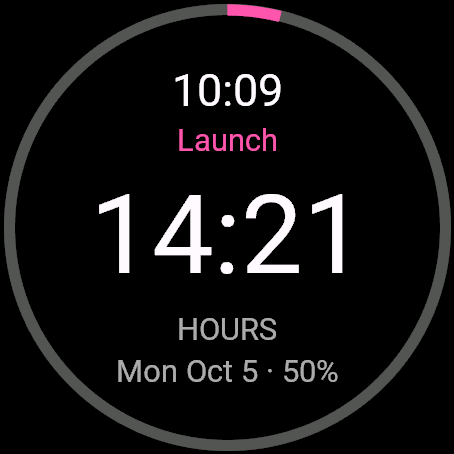
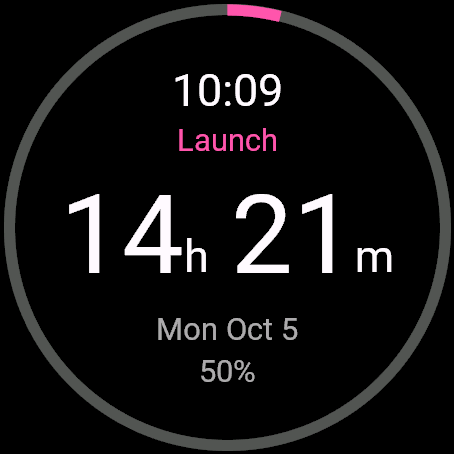
feat(DaysToGo): Pro's last 24 hours read 8h 06m
8:06 over HOURS read as a second clock under the time. Digits keep the
hero number font; small h/m letters sit on the digits' baseline
(getFontAscent where available); the HOURS caption is dropped. ADR-018
amendment. Letters are English only for now (ROADMAP 13.7).

ROADMAP 13.2; 13.6 decided keep.

Claude-Session: https://claude.ai/code/session_01VBnXC1zGyaFSzHFynsMi4H

Changed region(s): [[0.1542, 0.4009, 0.8634, 0.6167], [0.2467, 0.6784, 0.7401, 0.8634], [0.6167, 0.5859, 0.6784, 0.6167]]

diff --git a/ROADMAP.md b/ROADMAP.md
@@ -22,11 +22,12 @@ Do not keep open checkboxes anywhere else. Status 2026-10-05.
 - [x] 1.18 `[you]` DayArc on the Instinct 3 Solar: the Pro morning and midday are the same picture as Simple (deliberate, ADR-017, because the label is kept over a second grid row). Keep, or give Pro something more there? Also the new 0.12 stroke weight and the one-row Pro grid on the Instinct are judgement calls (ADR-017 says how to revert each): say if you want either reverted after you see them. **Decided 2026-10-04: keep as built** (DayArc ADR-017).
 - [ ] 8.2 `[you]` (later) Approve a direction for a bolder Days To Go; then implement (8.1).
 - [x] 13.1 `[you]` Days To Go ring scale (design critique 2026-10-05; Pro and Free). Two jumps as built: a full accent ring at exactly 365 days, empty at 366; and in Pro a timed event's ring goes from 5% (1 day) to about full when its last 24 hours start, then drains again. Options: (a) keep; (b) cap below full until the day and use one continuous scale in the last 24 h (about 1 h of code; the Pro listing shots with `8:06` show the 24 h ring and would need redoing, 10.5); (c) cap at 365 only (about 30 min). Agent recommends (b) together with 13.2. **Decided 2026-10-05: (b), built** (cap 95%, one scale; tests pass in the simulator; Pro listing shots 1, 3, 4, 5 and the hero recaptured). Ships with the next Days To Go upload of both; the new Pro images go up with it (10.5).
-- [ ] 13.2 `[you]` Days To Go Pro: the hours state `8:06 HOURS` reads as a second clock under the time (store hero shows `14:21 HOURS`). Option: `8h 06m`, no HOURS caption, inside DaysToGo ADR-018 (to the minute). Mockup first; about 2 h plus fit tests and new listing shots.
+- [x] 13.2 `[you]` Days To Go Pro: the hours state `8:06 HOURS` reads as a second clock under the time (store hero shows `14:21 HOURS`). Option: `8h 06m`, no HOURS caption, inside DaysToGo ADR-018 (to the minute). Mockup first; about 2 h plus fit tests and new listing shots. **Decided 2026-10-05: built** (digits in the hero font, small "h"/"m" on the baseline, no caption; ADR-018 amendment; tests pass on 8 devices in the simulator; Pro listing shots recaptured).
 - [ ] 13.3 `[you]` Days To Go: the bottom date is the event's date but reads as today's. Option: a prefix (`→ Nov 18` or a word like "on"). About 1 h; a word needs 15 languages (translations are yours).
 - [ ] 13.4 `[you]` Days To Go Pro: footer `50%` / `6.4K` has no icon, so it reads as nothing. Option: a small battery or steps glyph from primitives. About 2 h; a look change.
 - [ ] 13.5 `[you]` Days To Go Pro: Event time zone is a 216-entry `UTC±hh:mm` list; a wrong pick is silently an hour off (spec rule 6). Option: city hints on common offsets (`UTC+01:00 (Paris, Lagos)`). About half a day plus strings and the listing.
-- [ ] 13.6 `[you]` Days To Go: the accent arc shows time left (drains); most rings show progress (fill). Keep, or invert to fill toward the day (reopens the `DESIGN.md` direction). Agent: keep, decide after 13.1.
+- [x] 13.6 `[you]` Days To Go: the accent arc shows time left (drains); most rings show progress (fill). Keep, or invert to fill toward the day (reopens the `DESIGN.md` direction). Agent: keep, decide after 13.1. **Decided 2026-10-05: keep.**
+- [ ] 13.7 `[you]` Days To Go Pro: the `8h 06m` letters are English on every watch (`resources-pro/strings/units.xml`; languages fall back to it). "m" can read as metres. Options: keep; "min"; or a `resources-pro-<lang>/strings/units.xml` per language (translations are yours).
 
 ## 2. Your hands (a watch, the store dashboard, a person)
 

diff --git a/DaysToGo/DESIGN.md b/DaysToGo/DESIGN.md
@@ -51,7 +51,7 @@ components:
 
 ## Timed events, to the minute (Pro, ADR-018)
 
-A Pro event with a time (Time of day, Minute) and, optionally, an Event time zone changes **no row, font or colour**. The last 24 hours before the event's instant still read as the hero `H:MM` over the caption HOURS (for example `7:51`, rounded up to the minute so it never says `0:00` while time is left; `24:00` at most, which is the widest string and was already in the screen-fit states), with the ring on the same square-root scale as the days (5% at 24 hours down to a sliver; ROADMAP 13.1). What the zone moves is only **when** that state starts and **when** TODAY arrives; the day count before it is whole local calendar days and flips at the watch's own midnight, so the same event shows the same number of days on any wrist. On an Instinct the hero is the same text in white on black, beside the window as before. There is no zone label on the face: the zone is a setting, never a row (one number, nothing more).
+A Pro event with a time (Time of day, Minute) and, optionally, an Event time zone changes no colour. The last 24 hours before the event's instant read as the hero `7h 51m` with no caption row (ADR-018 amendment, 2026-10-05, ROADMAP 13.2: `7:51` over HOURS read as a second clock): the digits in the hero's number font, the letters "h" and "m" in the largest letter font up to 45% of the digits' height, on the digits' baseline, two letter-spaces between the groups. Rounded up to the minute so it never says `0m` while time is left; `24h 00m` at most, the widest state in the screen-fit test, with the ring on the same square-root scale as the days (5% at 24 hours down to a sliver; ROADMAP 13.1). What the zone moves is only **when** that state starts and **when** TODAY arrives; the day count before it is whole local calendar days and flips at the watch's own midnight, so the same event shows the same number of days on any wrist. On an Instinct the hero is the same text in white on black, beside the window as before. There is no zone label on the face: the zone is a setting, never a row (one number, nothing more).
 
 ## Rows, top to bottom
 

diff --git a/DaysToGo/docs/spec.md b/DaysToGo/docs/spec.md
@@ -84,7 +84,7 @@ The owner chose paid ($1.99) on 2026-09-26. The research adds a risk the owner s
 | State | When | Hero | Caption | Ring |
 |---|---|---|---|---|
 | Upcoming | days > 0 | the day count, or whole weeks | DAY / DAYS / WEEKS (+ "+ n DAYS" in weeks mode) | square root of the share of the next 365 days still to go (1 day = 5% of the ring, 30 days = 29%); capped at 95% so only the day fills it; more than 365 days away: grey track only (ROADMAP 13.1) |
-| Hours (**Pro only**: Free has no timed events) | timed event, under 24 h to its instant (its time in its own zone, ADR-018) | `H:MM`, to the minute | HOURS | the same scale as the days, from 5% at 24 h to a sliver (ROADMAP 13.1) |
+| Hours (**Pro only**: Free has no timed events) | timed event, under 24 h to its instant (its time in its own zone, ADR-018) | `7h 51m`, to the minute (letters in a small font; ADR-018 amendment, ROADMAP 13.2) | none | the same scale as the days, from 5% at 24 h to a sliver (ROADMAP 13.1) |
 | Today | the event's day (all-day) or its instant has arrived (then until the end of its last local day) | TODAY | | full, accent |
 | Past | after the event | days since | DAY SINCE / DAYS SINCE | empty track, muted |
 | Invalid | a saved date that does not exist (30 Feb 2026) | SET A DATE | | none |

diff --git a/DaysToGo/docs/decisions.md b/DaysToGo/docs/decisions.md
@@ -201,6 +201,8 @@ Every durable design decision, newest last. [`spec.md`](spec.md) says what the p
 
 **Reversed by.** The owner. A new ADR would supersede this one; the keys `Minute` and `EventZone` stay in the Pro properties file forever once shipped.
 
+**Amendment 2026-10-05 (owner, ROADMAP 13.2; simulator only): the last 24 hours read `8h 06m`, not `8:06` over HOURS.** `8:06` under the time read as a second clock. The hero's digits stay in the number font and the unit letters ("h", "m": `resources-pro/strings/units.xml`, English only for now, ROADMAP 13.7) are drawn in a letter font on the digits' baseline (`DaysToGoHoursHero`; `Graphics.getFontAscent` where the API has it, else `DaysToGoLayout.HOURS_UNIT_LIFT_PERMILLE`). The HOURS caption is gone, so the hero gets that row's height; always-on draws the same group, dim. The count, the rounding and the zone rules are unchanged. Reversed by the owner (restore the caption and draw the hero as one string).
+
 ## Reference code
 
 `docs/reference/` (the verified first draft of the logic, the on-watch picker and the tools) was superseded by `source/` and `tools/`, then deleted; its history is in the research notes.

diff --git a/DaysToGo/CHANGELOG.md b/DaysToGo/CHANGELOG.md
@@ -5,6 +5,7 @@ text for each version is in [`listing/paste.md`](listing/paste.md).
 
 ## Unreleased (next upload of both)
 
+- **Pro: the last 24 hours read `8h 06m` (owner, 2026-10-05, ROADMAP 13.2; simulator only).** `8:06` over HOURS read as a second clock under the time. The digits keep the hero font, the letters "h" and "m" are small and on the digits' baseline, and the HOURS caption is gone (DaysToGo ADR-018 (to the minute), amendment). The letters are English for now (ROADMAP 13.7).
 - **The ring has one scale (owner, 2026-10-05, ROADMAP 13.1; simulator only).** It stops at 95% until the day itself, so a full ring means only the day (it was full at exactly 365 days). In Pro, a timed event's last 24 hours stay on the days' square-root scale (5% at 24 hours, a sliver at the end) instead of restarting near full. Pro listing shots 1, 3, 4, 5 and the hero were recaptured. Tests: Pro 67, Free 56 (`hoursRingContinuesTheDays` new).
 
 ## Free 1.0.0 and Pro 1.1.0 — uploaded 2026-10-04 by the owner, in Garmin review
